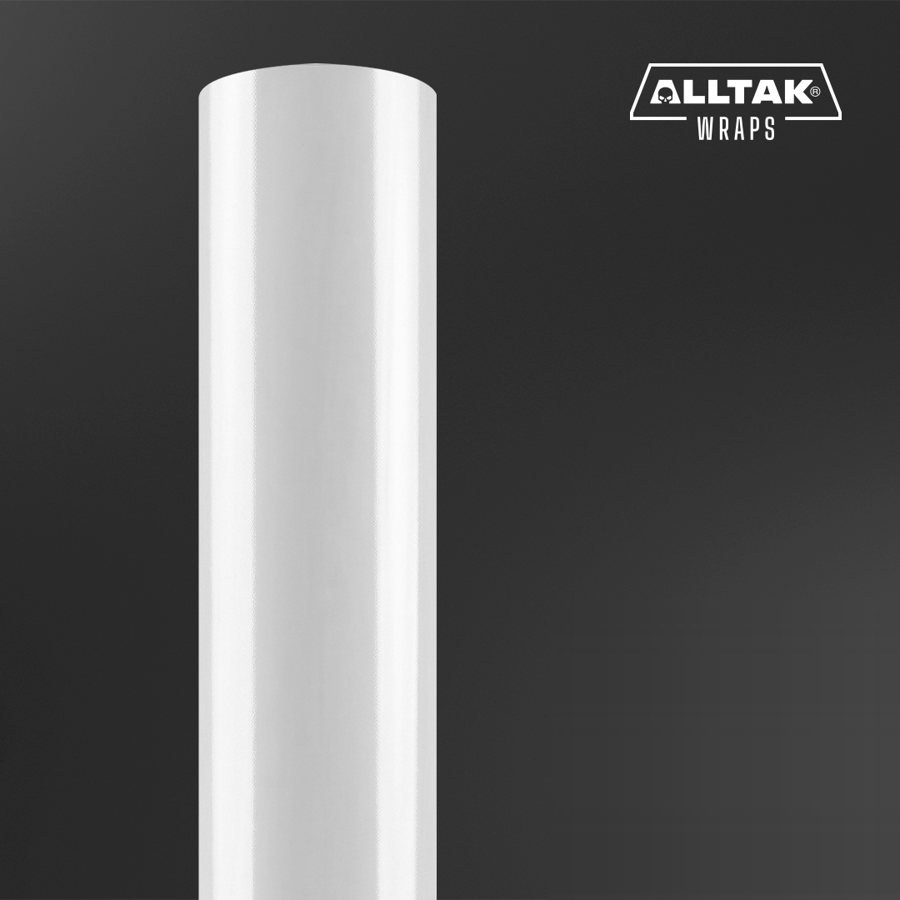
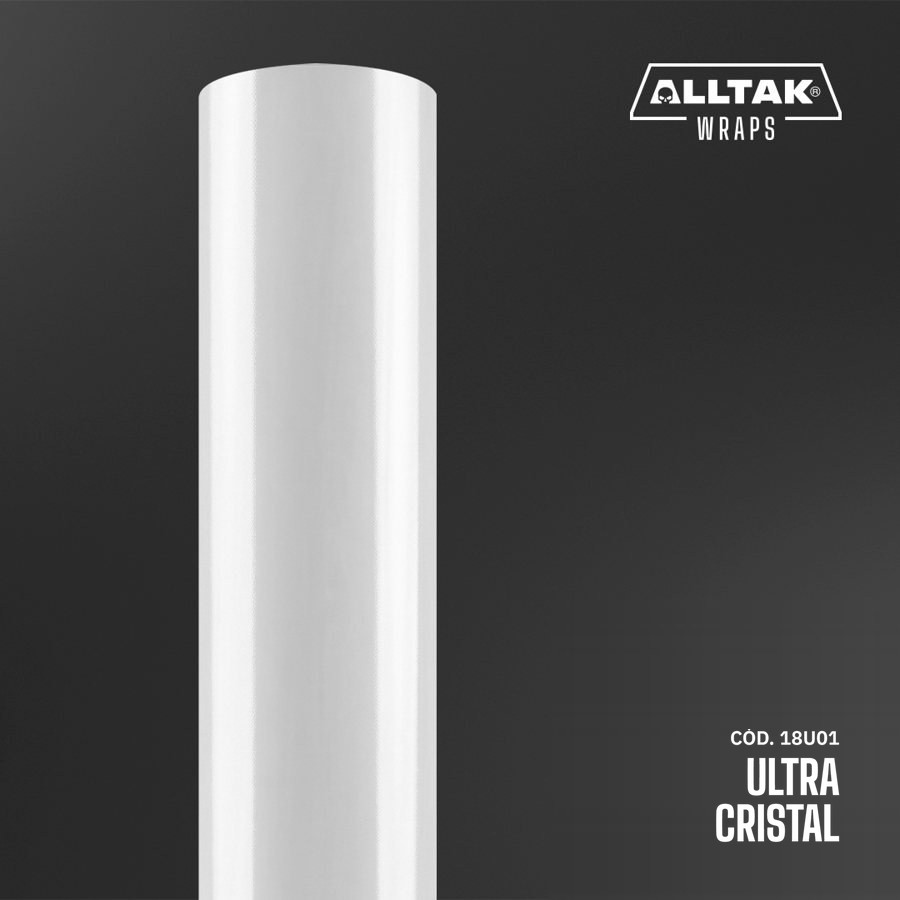
Downloads so com catalogos e logotipos; fotos no padrao da cartela
Saem Perfis de cor, Pattern, Wallpaper, Downloads do instalador e Area do
instalador. Satin Brown Metallic e Ultra Cristal ganham a foto da bobina com
logo, nome e codigo, como as demais cores Wraps.

Changed region(s): [[0.7778, 0.8089, 0.9333, 0.9333]]

diff --git a/src/data/downloads.ts b/src/data/downloads.ts
@@ -46,115 +46,6 @@ export const DOWNLOADS: GrupoDownload[] = [
       { nome: 'Logo Alltak Signs', arquivo: './wp-uploads/2025/07/Alltak-SIGNS.pdf' },
     ],
   },
-  {
-    slug: 'perfis-de-cor',
-    titulo: { pt: 'Perfis de cor', en: 'Color profiles', es: 'Perfiles de color' },
-    desc: {
-      pt: 'Acesse aqui e veja o perfil de cor ideal para o seu equipamento.',
-      en: 'Find the ideal color profile for your equipment.',
-      es: 'Encuentra el perfil de color ideal para tu equipo.',
-    },
-    itens: [
-      ['GLOSS 720×720', '2021/01/alltakGLOSS720_720_JV150.icc'],
-      ['GLOSS 1440×1440', '2021/01/alltakGLOSS1440_1440_JV150.icc'],
-      ['MATT 540×720', '2021/01/alltakMATT540_720_JV150.icc'],
-      ['MATT 540×720 (2)', '2021/02/alltakMATT540_720_JV150_02.icc'],
-      ['MATT 720×1440', '2021/01/alltakMATT720_1440_JV150.icc'],
-      ['MATT 720×1440 (2)', '2021/01/alltakMATT720_1440_JV150_02.icc'],
-      ['Alltak Gloss 114 fast', '2021/01/Alltak114_FAST_cjv30.icc'],
-      ['Alltak Gloss 122 foto', '2021/01/Alltak122_FOTO_cjv30.icc'],
-      ['Alltak Gloss 134 art', '2021/01/Alltak134_ART_jvc30.icc'],
-      ['Alltak Matte 214 fast', '2021/01/Alltak214_FAST_jvc30.icc'],
-      ['Alltak Matte 222 foto', '2021/01/Alltak222_foto_cjv30.icc'],
-      ['Alltak Matte 233 art', '2021/01/Alltak233_ART_jvc30.icc'],
-      ['Alltak Jateado 317 fast', '2021/01/Alltak317_FAST_jvc30.icc'],
-      ['Alltak Jateado 322 foto', '2021/01/Alltak322_FOTO_cjv30.icc'],
-      ['Alltak 527 fast', '2021/01/Alltak527_FAST_cjv30.icc'],
-      ['Alltak 533 foto', '2021/01/Alltak532_FOTO_cjv30.icc'],
-      ['Alkosign Gloss 914 fast', '2021/01/Alltak914_FAST_jvc30.icc'],
-      ['Alkosign Gloss 933 foto', '2021/01/Alltak933_FOTO_jvc30.icc'],
-      ['Alkosign Mate 817 fast', '2021/01/Alltak817-FAST_JVC30.icc'],
-      ['Alkosign Mate 832 foto', '2021/01/Alltak832_FOTO_cjv30.icc'],
-      ['Alkosign Textura 727 fast', '2021/01/Alltak727_FAST_cjv30.icc'],
-      ['Alkosign Textura 732 foto', '2021/01/Alltak732_FOTO_cjv30.icc'],
-      ['Alkosign Arezzo D.I Branco', '2021/01/Alltak-Alkosign-Arezzo-D.I-Branco.oms'],
-      ['Alkosign Linho', '2021/01/Alltak-Alkosign-Linho.oms'],
-      ['Alkosign Sarja', '2021/01/Alltak-Alkosign-Sarja.oms'],
-      ['AW Auto Wrap', '2021/01/Alltak-AW-Auto-Warp.oms'],
-      ['Corolan', '2021/01/Alltak-Corolan.oms'],
-      ['D.Print Blackout Branco GL', '2021/01/Alltak-D.Print-Blackout-Branco-GL.oms'],
-      ['D.Print Blackout GL', '2021/01/Alltak-D.Print-Blackout-GL.oms'],
-      ['D.Print Matt Branco', '2021/01/Alltak-D.Print-Matt-Branco.oms'],
-      ['Eletrostático Branco', '2021/01/Alltak-Eletrostatico-Branco.oms'],
-      ['Eletrostático Transparente', '2021/01/Alltak-Eletrostatico-Transparente.oms'],
-      ['Transparente Brilho', '2021/01/Alltak-Transparente-Brilho.oms'],
-      ['Transparente Matt', '2021/01/Alltak-Transparente-Matt.oms'],
-      ['Tuning Jateado Branco Krusher', '2021/01/Alltak-Tuning-Jateado-Branco-Krusher.oms'],
-      ['Alko Sign 720×720', '2021/01/AlkoSign_720x720_3P.icm'],
-      ['Alltak Gloss 720×720', '2021/01/ALLTAK_gloss_720X720.icm'],
-      ['Alltak Jateado 720×720', '2021/01/Alltak_JATEADO_720X720.icm'],
-      ['Corolan 720×720', '2021/01/corolan_720X720.icm'],
-      ['Teste de perfil', '2021/02/Teste-de-Perfil.icc'],
-      ['Perfis Alko (Roland)', '2021/02/Perfil-Alltak-Maquina-Rolland.zip'],
-    ].map(([nome, arq]) => ({ nome, arquivo: `${WP}/${arq}` })),
-  },
-  {
-    slug: 'pattern',
-    titulo: 'Pattern',
-    desc: { pt: 'Brinde para os clientes Alltak: escolha o seu e baixe.', en: 'A gift for Alltak customers: pick yours and download.', es: 'Regalo para los clientes Alltak: elige el tuyo y descárgalo.' },
-    itens: [
-      { nome: { pt: 'Ferrugem', en: 'Rust', es: 'Óxido' }, arquivo: `${WP}/2021/01/ferrugem.zip` },
-      { nome: { pt: 'Caveira', en: 'Skull', es: 'Calavera' }, arquivo: './wp-uploads/2021/01/caveira.pdf' },
-      { nome: 'Wraptopus 35 cm', arquivo: `${WP}/2021/01/WRAPTOPUS_35-cm-Cromia.tif` },
-      { nome: 'Rose Skull', arquivo: `${WP}/2021/01/rose_skull_pattern.tif` },
-    ],
-  },
-  {
-    slug: 'wallpaper',
-    titulo: 'Wallpaper Alltak Tuning',
-    desc: { pt: 'Acesse e veja todas as imagens.', en: 'See all the images.', es: 'Mira todas las imágenes.' },
-    itens: [
-      { nome: 'Wallpaper Alltak', arquivo: `${WP}/2021/01/wallpaper.zip` },
-      { nome: { pt: 'Wallpaper Caveira', en: 'Skull wallpaper', es: 'Wallpaper Calavera' }, arquivo: `${WP}/2021/01/wallpaper-caveira.zip` },
-      { nome: 'Skull Poker', arquivo: `${WP}/2021/01/Skullpoker.zip` },
-    ],
-  },
-  {
-    slug: 'instalador',
-    titulo: { pt: 'Downloads do instalador', en: 'Installer downloads', es: 'Descargas del instalador' },
-    desc: {
-      pt: 'Conteúdo Alltak para instaladores.',
-      en: 'Alltak content for installers.',
-      es: 'Contenido Alltak para instaladores.',
-    },
-    itens: [
-      { nome: { pt: 'Check-list para envelopamento', en: 'Wrapping checklist', es: 'Checklist de ploteo' }, arquivo: './wp-uploads/2021/01/check-list-para-envelopamento-ALLTAK.pdf' },
-      { nome: { pt: 'Manual de limpeza e conservação', en: 'Cleaning and care manual', es: 'Manual de limpieza y conservación' }, arquivo: './wp-uploads/2021/01/manual-de-limpeza-e-conservacao-para-envelopamento-ALLTAK.pdf' },
-    ],
-  },
-  {
-    slug: 'area-do-instalador',
-    titulo: { pt: 'Área do instalador', en: 'Installer area', es: 'Área del instalador' },
-    desc: {
-      pt: 'Artes para download para a sua área de envelopamento.',
-      en: 'Artwork to download for your wrapping space.',
-      es: 'Artes para descargar para tu área de ploteo.',
-    },
-    intro: {
-      pt: 'Artes personalizadas Alltak para decorar e customizar o seu local de trabalho: baixe os arquivos e imprima de acordo com o seu espaço. Assim o seu cliente saberá que você tem Alltak na veia.',
-      en: 'Custom Alltak artwork to decorate and personalize your workplace: download the files and print them to fit your space. That way your customers will know you have Alltak in your veins.',
-      es: 'Artes personalizadas Alltak para decorar y personalizar tu lugar de trabajo: descarga los archivos e imprímelos según tu espacio. Así tu cliente sabrá que llevas Alltak en la sangre.',
-    },
-    pasta: 'https://drive.google.com/drive/folders/1oz5R78bf64OcSl4X6AJbmaXwXAbQNJH6',
-    itens: [
-      { nome: { pt: 'Painel institucional PDV', en: 'Point-of-sale institutional panel', es: 'Panel institucional PDV' }, desc: '300 × 130 cm',
-        arquivo: './wp-uploads/2021/01/Alltak_PDV_painel_Institucional_300x130cm-scaled-1.jpg' },
-      { nome: { pt: 'Painel linha automotiva', en: 'Automotive line panel', es: 'Panel línea automotriz' }, desc: '205 × 120 cm',
-        arquivo: './wp-uploads/2021/01/Alltak_Painel-Linha-Automotiva_205x120cm-scaled-1.jpg' },
-      { nome: { pt: 'Painel de cores automotiva', en: 'Automotive color panel', es: 'Panel de colores automotriz' }, desc: '120 × 100 cm',
-        arquivo: './wp-uploads/2021/01/Alltak_Painel-de-cores_automotiva_120x100cm-scaled-1.jpg' },
-    ],
-  },
 ]
 
 export const texto = (v: Texto, lang: Lang): string => (typeof v === 'string' ? v : v[lang])

diff --git a/src/i18n/dict-paginas.ts b/src/i18n/dict-paginas.ts
@@ -271,9 +271,9 @@ export const DICT_PAGINAS: Record<string, Record<Lang, string>> = {
   // ---- Downloads ----
   'dl.eyebrow': { pt: 'Materiais oficiais', en: 'Official materials', es: 'Materiales oficiales' },
   'dl.headerSub': {
-    pt: 'Catálogos, logotipos, perfis de cor e materiais oficiais da Alltak. Escolha a categoria; o download é liberado após um cadastro rápido.',
-    en: 'Alltak catalogs, logos, color profiles and official materials. Pick a category; downloads unlock after a quick sign-up.',
-    es: 'Catálogos, logotipos, perfiles de color y materiales oficiales de Alltak. Elige la categoría; la descarga se habilita tras un registro rápido.',
+    pt: 'Catálogos e logotipos oficiais da Alltak. Escolha a categoria; o download é liberado após um cadastro rápido.',
+    en: 'Official Alltak catalogs and logos. Pick a category; downloads unlock after a quick sign-up.',
+    es: 'Catálogos y logotipos oficiales de Alltak. Elige la categoría; la descarga se habilita tras un registro rápido.',
   },
   'dl.cadastro': {
     pt: 'O download é liberado após um cadastro rápido.',

diff --git a/src/pages/Downloads.tsx b/src/pages/Downloads.tsx
@@ -30,8 +30,7 @@ function Miniatura({ arquivo, nome, tipo, claro = true }: { arquivo: string; nom
   )
 }
 
-// Downloads como no site antigo: a página principal lista os seis grupos
-// (catálogos, logotipos, perfis de cor, pattern, wallpaper, instalador) e
+// Downloads: a página principal lista os grupos (catálogos e logotipos) e
 // cada grupo tem a sua página com os arquivos. Download com cadastro (leads).
 
 export function DownloadsInicio() {
